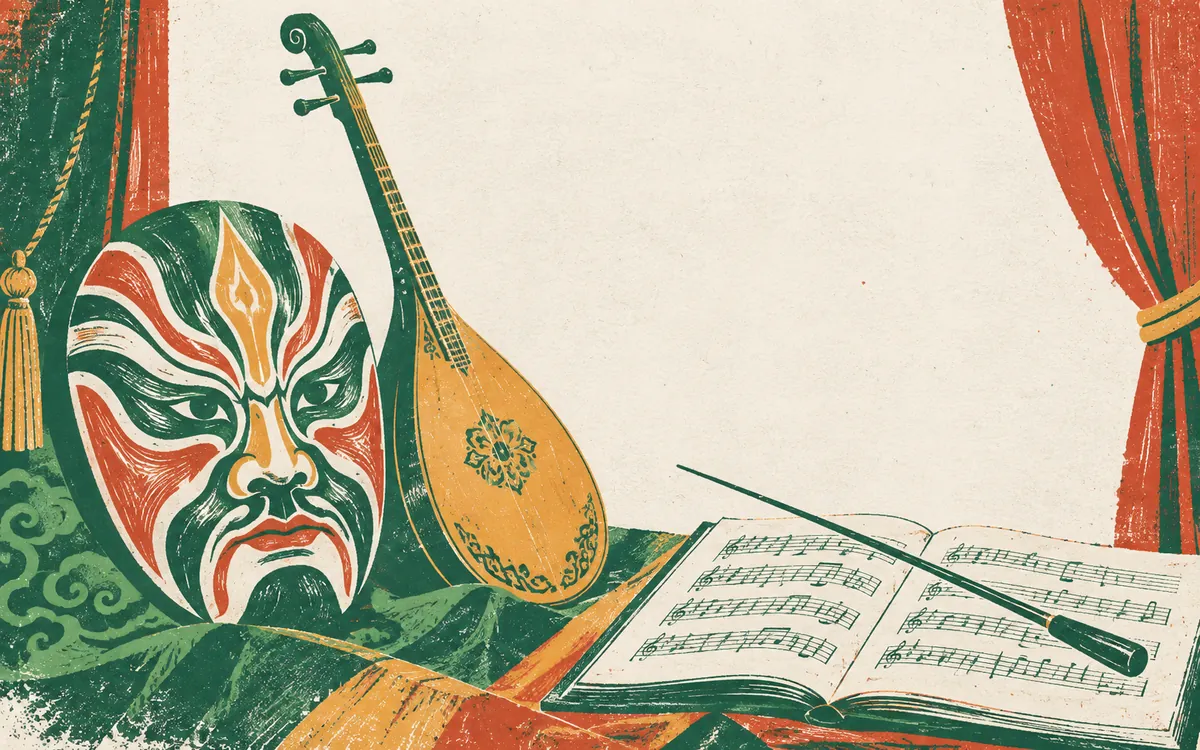
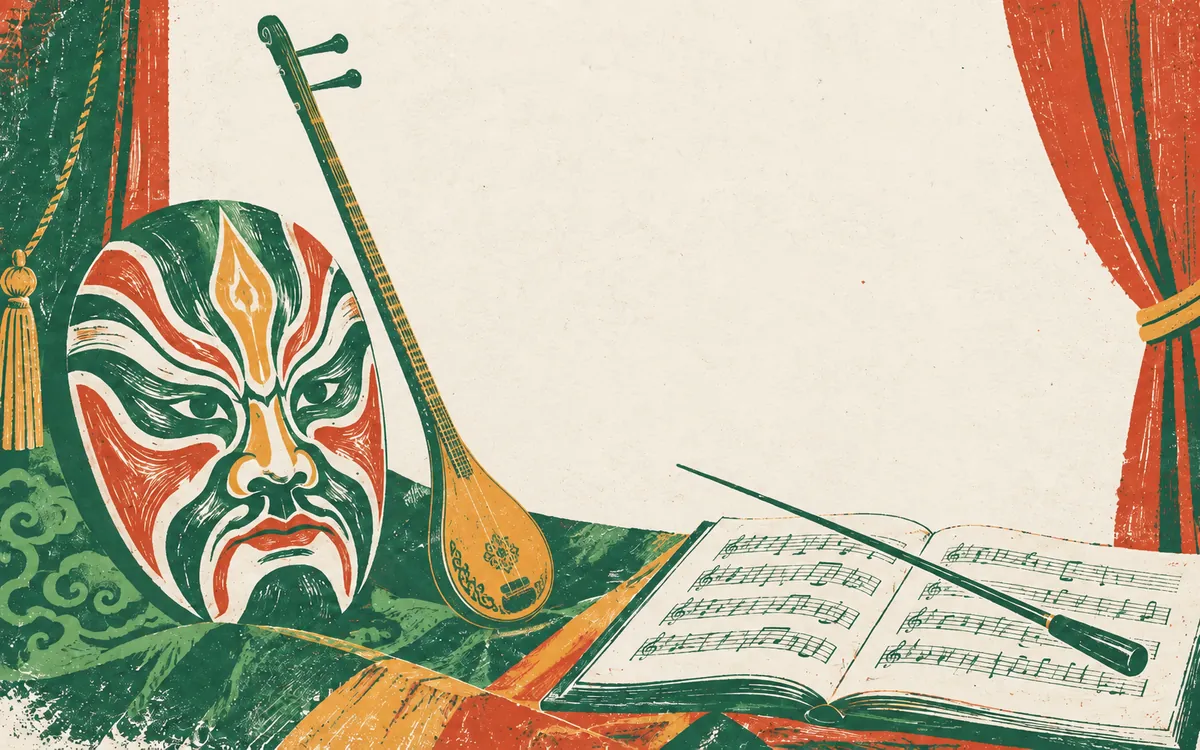
fix: redraw dutar (g7s2) and lusheng (g9s1) artwork with correct instruments
g7s2 showed a pipa and g9s1 a single pipe; replaced with codex3 T007 candidate 2 (two-string dutar, six-pipe lusheng). SOURCES.md updated with the prompts.

diff --git a/public/art/SOURCES.md b/public/art/SOURCES.md
@@ -16,15 +16,21 @@ A marching band's snare drum and a mongolian horse-head fiddle resting on a fold
 
 ## 七下 `g7s2.webp`
 
-- 生成日期：2026-09-28
-- 工具：由 OpenAI Codex 内置图像生成工具生成（`image_gen`）
+- 生成日期：2026-09-29（重画：修正乐器形制，取 T007 候选 2）
+- 工具：由 OpenAI Codex 内置图像生成工具生成（`image_gen`），以 T006 选定图为构图参考
 - 模型：工具未披露具体名称或版本
-- 导出：1200×750 WebP，156,160 B
 - 使用条款：[OpenAI Terms of Use](https://openai.com/policies/terms-of-use/)
-
-```text
-A Peking opera painted face mask beside a xinjiang dutar lute, an overture conductor's baton lying across an open score, a stage curtain edge. Chinese woodblock print and screen-print style, hand-carved lines, visible paper grain and slight ink misregistration, limited palette of 4 spot colors only: pine green #1F5C47, sprout green #3E9B4F, vermilion #D2462C, amber #E9A83A, printed on warm off-white paper #F7F3EA. Flat shapes, no gradients, no glow, no neon, no 3D render, no photorealism, no text, no letters, no watermark, no logo. Calm, editorial composition with generous empty space for layout. Landscape composition, target aspect ratio 8:5 (1200×750). Negative prompt: glowing nodes, network lines, sci-fi, holographic, neon, bokeh, lens flare, 3D, CGI, glossy, gradient mesh, generic ink-wash mountains, clip art, emoji, cartoon mascot, text, watermark.
-```
+- 原始 PNG：E:/Projects/.tmp/codex3/T007-raw/g7s2-2.png（1586×992，2,641,719 B）
+- 导出：1200×750，140,296 B
+- 特征核对：可见 2 根弦、2 个弦轴；细长琴颈约占全长三分之二，缠线清楚；小瓢形琴箱与琵琶的大梨形琴箱有明显区别。
+- 完整提示词：
+<pre>Use case: illustration-story
+Asset type: candidate 2 for a 1200×750 educational textbook unit artwork
+Input images: Image 1 is the selected g7s2 artwork and is a composition/style reference only; retain its scene arrangement and woodblock print language while correcting the lute.
+Primary request: A Peking opera painted face mask beside a Xinjiang dutar lute, an overture conductor's baton lying across an open score, and a stage curtain edge. The dutar must be unmistakable: a very long thin neck about two-thirds of the total instrument length, exactly two strings, exactly two tuning pegs, silk thread frets wound around the neck, and a small gourd-shaped body much smaller than a pipa body. Not a pipa.
+Composition: Follow Image 1: face mask at lower left, slender dutar neck rising near center-left, open score and baton at lower right, curtain edges framing the sides, generous blank warm paper across the upper center/right. Keep these scene elements and relative placement. Make the two strings and two tuning pegs visibly countable.
+Chinese woodblock print and screen-print style, hand-carved lines, visible paper grain and slight ink misregistration, limited palette of 4 spot colors only: pine green #1F5C47, sprout green #3E9B4F, vermilion #D2462C, amber #E9A83A, printed on warm off-white paper #F7F3EA. Flat shapes, no gradients, no glow, no neon, no 3D render, no photorealism, no text, no letters, no watermark, no logo. Calm, editorial composition with generous empty space for layout. Landscape composition, target aspect ratio 8:5 (1200×750).
+Negative prompt: glowing nodes, network lines, sci-fi, holographic, neon, bokeh, lens flare, 3D, CGI, glossy, gradient mesh, generic ink-wash mountains, clip art, emoji, cartoon mascot, text, watermark. pipa, four strings, four tuning pegs, large pear-shaped lute body.</pre>
 
 ## 八上 `g8s1.webp`
 
@@ -52,15 +58,23 @@ An open book of classical Chinese poetry with a bamboo flute, a symphony orchest
 
 ## 九上 `g9s1.webp`
 
-- 生成日期：2026-09-29
-- 工具：由 OpenAI Codex 内置图像生成工具生成（`image_gen`）
+- 生成日期：2026-09-29（重画：修正乐器形制，取 T007 候选 2）
+- 工具：由 OpenAI Codex 内置图像生成工具生成（`image_gen`），以 T006 选定图为构图参考
 - 模型：工具未披露具体名称或版本
-- 导出：1200×750 WebP，152,176 B
 - 使用条款：[OpenAI Terms of Use](https://openai.com/policies/terms-of-use/)
-
-```text
-A landscape painting scroll unrolling into sound waves drawn as carved lines, a lusheng reed pipe from southwest China, opera water sleeves. Chinese woodblock print and screen-print style, hand-carved lines, visible paper grain and slight ink misregistration, limited palette of 4 spot colors only: pine green #1F5C47, sprout green #3E9B4F, vermilion #D2462C, amber #E9A83A, printed on warm off-white paper #F7F3EA. Flat shapes, no gradients, no glow, no neon, no 3D render, no photorealism, no text, no letters, no watermark, no logo. Calm, editorial composition with generous empty space for layout. Landscape composition, target aspect ratio 8:5 (1200×750). Negative prompt: glowing nodes, network lines, sci-fi, holographic, neon, bokeh, lens flare, 3D, CGI, glossy, gradient mesh, generic ink-wash mountains, clip art, emoji, cartoon mascot, text, watermark.
-```
+- 编辑输入 PNG：E:/Projects/.tmp/codex3/T007-raw/g9s1-2.png（首轮错误候选，2,505,446 B）
+- 原始输出 PNG：E:/Projects/.tmp/codex3/T007-raw/g9s1-attempt-5.png（1586×992，2,352,342 B）
+- 导出：1200×750，153,374 B
+- 特征核对：可数清 6 根高低错落的管；人物双手握住笙斗并含吹口。其余卷轴、声波、水袖未被重画。
+- 完整编辑提示词：
+<pre>Use case: illustration-story
+Asset type: edit a 1200×750 educational textbook unit artwork
+Input images: Image 1 is the edit target. Image 2 is the selected g9s1 composition reference.
+Primary request: Change only the lusheng held by the musician in Image 1. It currently shows five bamboo pipes; add exactly one distinct pipe so the finished lusheng has exactly six bamboo pipes total. Make six separate, countable vertical pipes of different lengths with six visible staggered tops, rising from one long wooden wind chest. The musician must keep both hands holding the wind chest and keep the mouthpiece at the lips.
+Constraints: Preserve every other part of Image 1 unchanged: the landscape painting scroll on the left, its carved-line sound waves through the center, the opera water-sleeve dancer at the right, the performer, clothing, colors, print texture, and overall composition. Keep the lusheng placement. The added sixth pipe must be visibly separate, not hidden behind another pipe. Do not produce five or seven pipes.
+Style: Chinese woodblock print and screen-print style, hand-carved lines, visible paper grain and slight ink misregistration; limited spot colors pine green #1F5C47, sprout green #3E9B4F, vermilion #D2462C, amber #E9A83A on warm off-white #F7F3EA; flat shapes, no gradients, glow, neon, 3D, text, watermark, or logo.
+Negative prompt: single flute, single pipe, one bamboo tube, five pipes, seven pipes, fewer or more than six pipes, glowing nodes, network lines, sci-fi, holographic, neon, bokeh, lens flare, 3D, CGI, glossy, generic ink-wash mountains, clip art, emoji, text, watermark.</pre>
+- 构图参考输入：E:/Projects/yapu-collab/codex3/outbox/T006-art/g9s1-3.webp（Image 2）
 
 ## 九下 `g9s2.webp`
 
